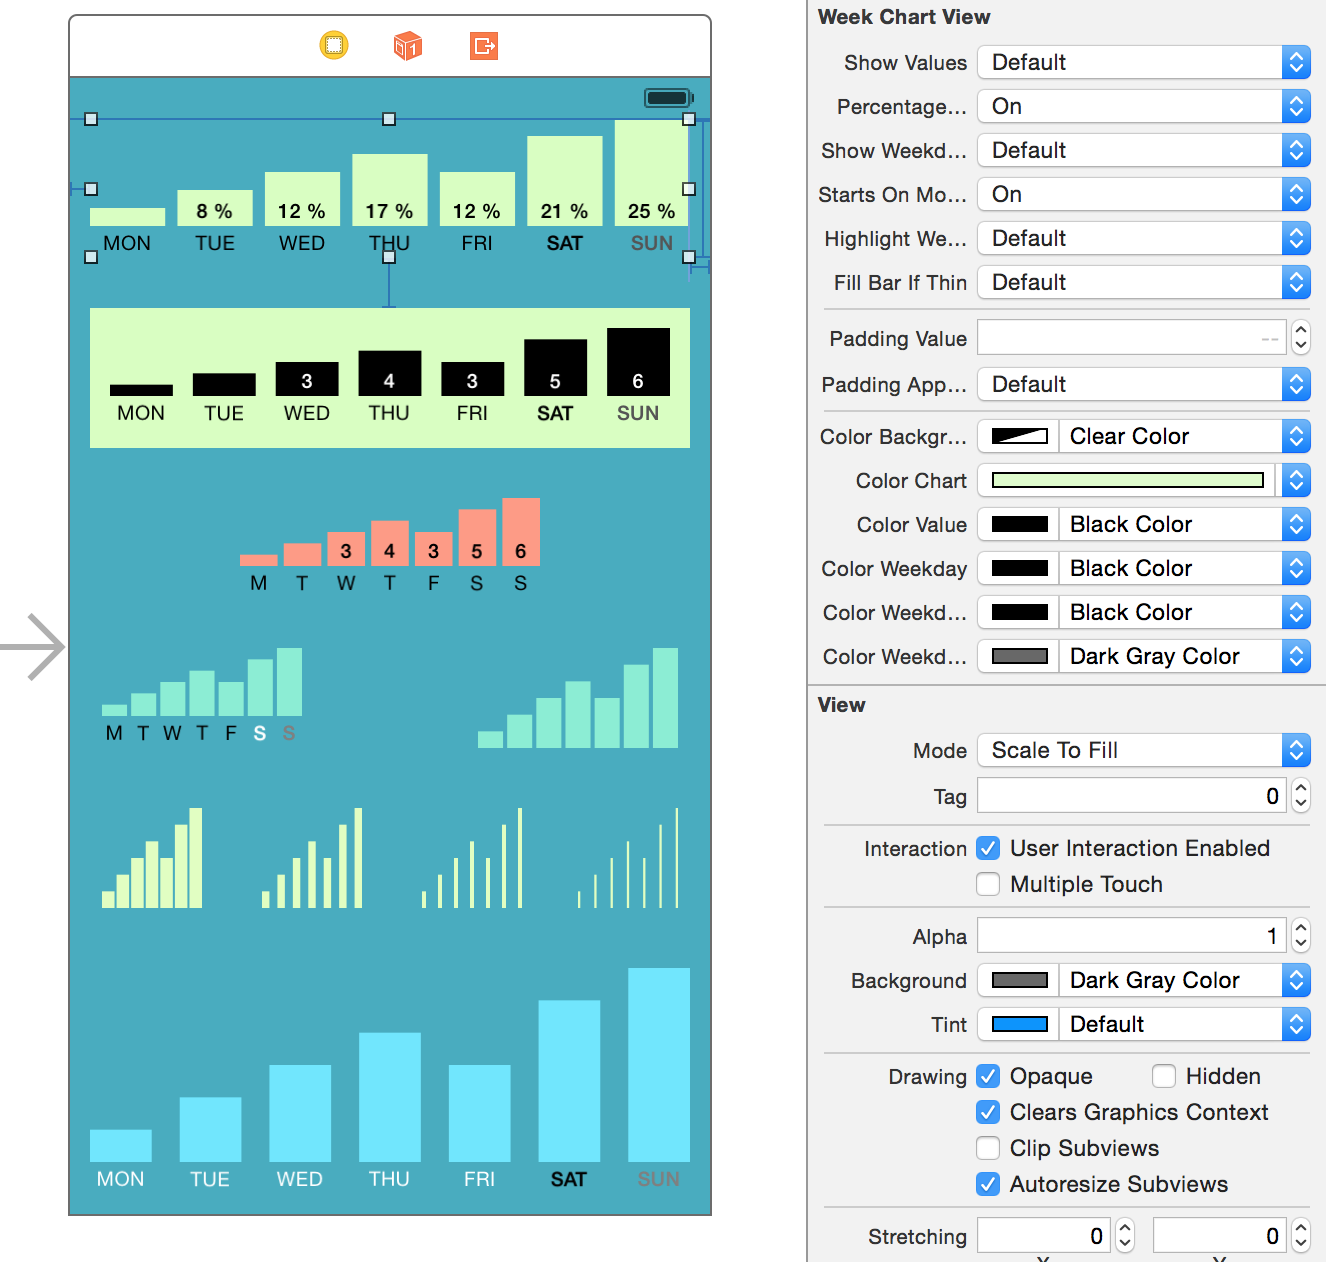
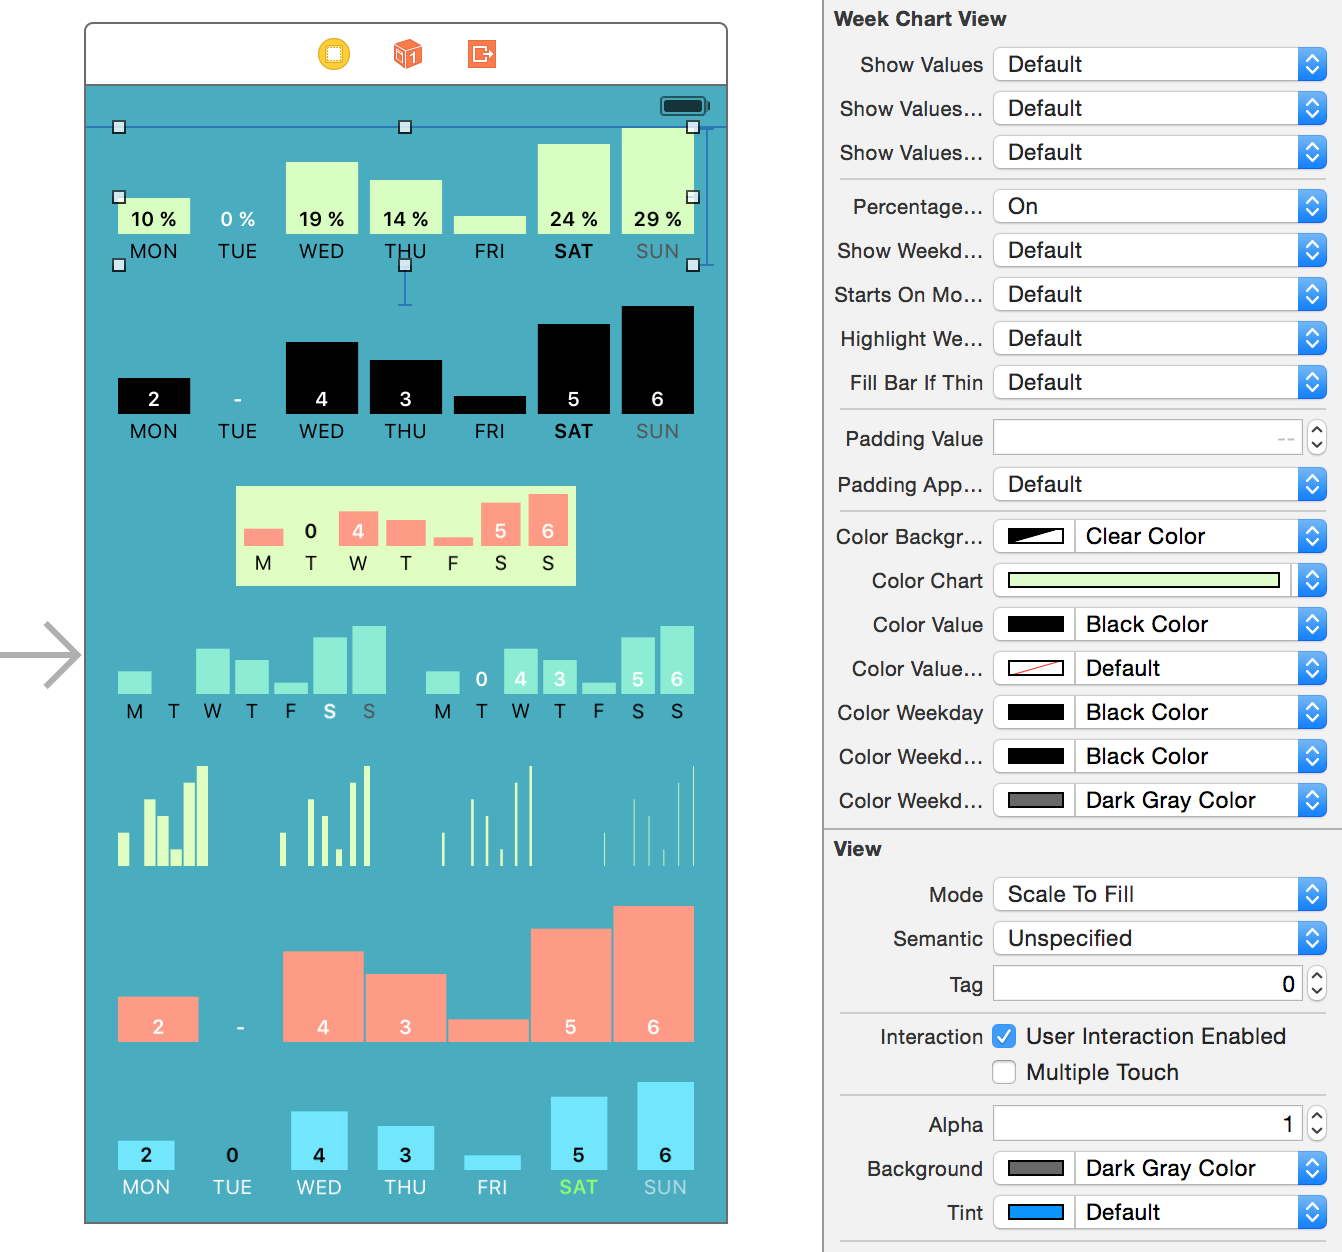
cocoapod: update podspec, readme and image

diff --git a/README.md b/README.md
@@ -11,6 +11,9 @@ SNLWeekChartView is a wrapper to easily create a [JBChartView](https://github.co
 
  * Configure and Preview view in storyboard.
  * Supports week start on monday or sunday.
+ * Weekday and value labels.
+ * Custom padding.
+ * ...
 
 ![Example](https://raw.githubusercontent.com/simonnickel/SNLWeekChartView/master/Pod/Assets/SNLWeekChartView.png)
 
@@ -65,6 +68,10 @@ You can ...
 
 
 ## Changelog
+
+### v1.1.0
+ * Added options to show empty values as "0" or "-", with custom color.
+ * Improved example.
 
 ### v1.0.4
 * Fix weekday label highlighting default font for future days.
